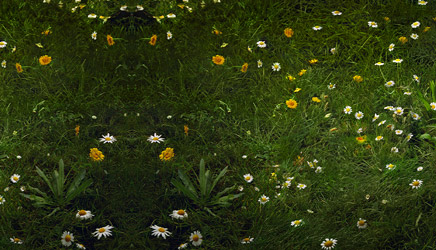
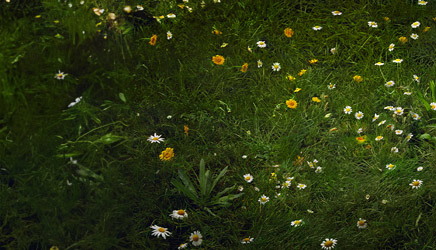
bg fix NNN

Changed region(s): [[0.0, 0.0, 0.328, 1.0]]

diff --git a/preview/Aldi/SUED_NNN/300x250_Sweet/main.js b/preview/Aldi/SUED_NNN/300x250_Sweet/main.js
@@ -29,7 +29,7 @@ function getAnimation(){
     masterTL.add("start")
     masterTL.to("#loaderWrapper", 0.2, {opacity:0, ease:Sine.easeInOut}, 0)
     masterTL.add("start");
-    masterTL.fromTo("#bgWrapper", 10, {x:-750}, {x:-1006, ease:Sine.easeInOut}, "start+=2");
+    masterTL.fromTo("#bgWrapper", 10, {x:-800}, {x:-1006, ease:Sine.easeInOut}, "start+=2");
     masterTL.from("#nurNurWrapper", 1, {width:0, ease:Sine.easeInOut}, "start+=0.5");
     masterTL.from("#tagline", 0.5, {scale:0, ease:Sine.easeOut}, "start+=0.8");
     masterTL.from("#tagline", 0.7, {y:-70, ease:Back.easeOut}, "start+=0.8");

diff --git a/preview/Aldi/SUED_NNN/300x250_general/main.js b/preview/Aldi/SUED_NNN/300x250_general/main.js
@@ -29,7 +29,7 @@ function getAnimation(){
     masterTL.add("start")
     masterTL.to("#loaderWrapper", 0.2, {opacity:0, ease:Sine.easeInOut}, 0)
     masterTL.add("start");
-    masterTL.fromTo("#bgWrapper", 10, {x:-720}, {x:-1009, ease:Sine.easeInOut}, "start+=2");
+    masterTL.fromTo("#bgWrapper", 10, {x:-800}, {x:-1009, ease:Sine.easeInOut}, "start+=2");
     masterTL.from("#nurNurWrapper", 1, {width:0, ease:Sine.easeInOut}, "start+=0.5");
     masterTL.from("#tagline", 0.5, {scale:0, ease:Sine.easeOut}, "start+=0.8");
     masterTL.from("#tagline", 0.7, {y:-70, ease:Back.easeOut}, "start+=0.8");
